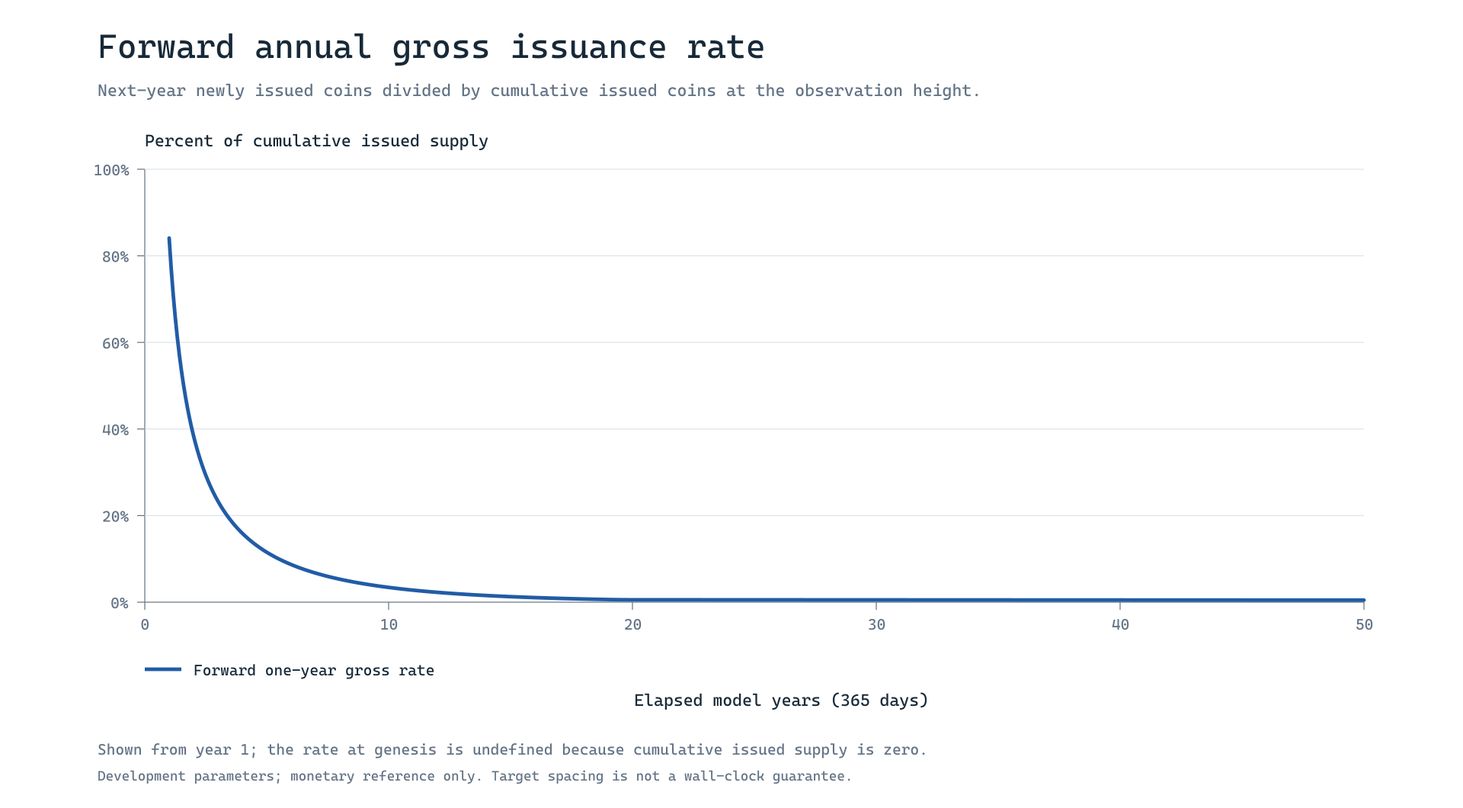
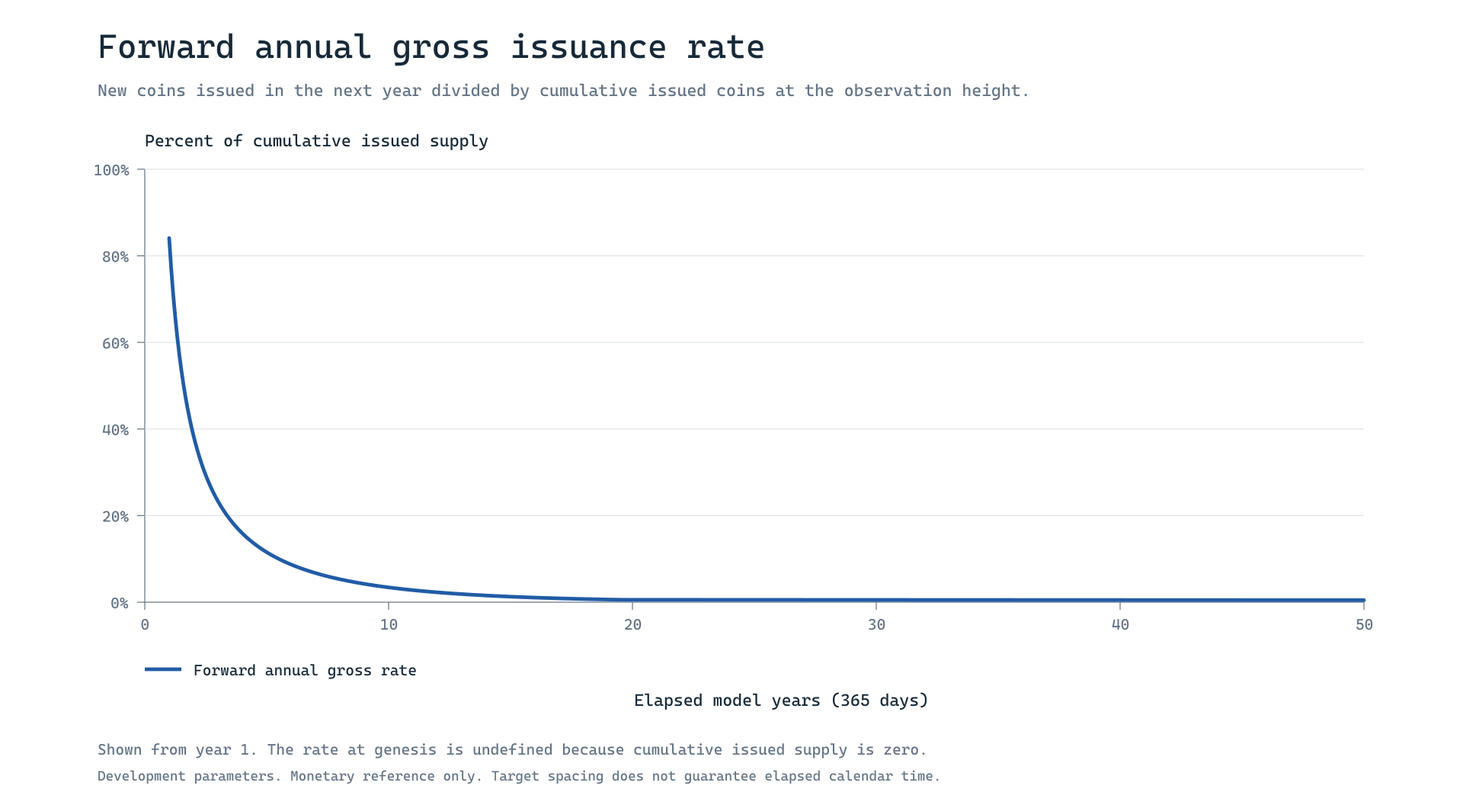
Documentation and research figures

Changed region(s): [[0.0938, 0.0934, 0.6875, 0.1245], [0.4375, 0.934, 0.625, 0.9651], [0.1875, 0.8094, 0.2812, 0.8406]]

diff --git a/research/emission/plot_emission.py b/research/emission/plot_emission.py
@@ -1,4 +1,4 @@
-"""Render data-derived emission charts with optional ReportLab 4.4.9.
+"""Render emission charts from data with optional ReportLab 4.4.9.
 
 The monetary generator and its tests require only the Python standard library.
 This separate renderer reads frozen CSVs and writes deterministic SVG charts.
@@ -78,7 +78,7 @@ def chart(title, subtitle, datasets, labels, palette, x_max, x_step,
         drawing.add(String(left + 32, 87, label, fontName="Helvetica", fontSize=10, fillColor=INK))
         left += max(180, 32 + len(label) * 6)
     drawing.add(String(64, 35, footer, fontName="Helvetica", fontSize=10, fillColor=GRAY))
-    drawing.add(String(64, 18, "Development parameters; monetary reference only. Target spacing is not a wall-clock guarantee.",
+    drawing.add(String(64, 18, "Development parameters. Monetary reference only. Target spacing does not guarantee elapsed calendar time.",
                        fontName="Helvetica", fontSize=9, fillColor=GRAY))
     return renderSVG.drawToString(drawing).encode("utf-8")
 
@@ -111,27 +111,27 @@ def generated_charts():
     inflation = [(float(row["model_years"]), float(row["next_year_gross_issuance_percent"]))
                  for row in monthly if row["next_year_gross_issuance_percent"] and
                  1 <= float(row["model_years"]) <= 50]
-    assumptions = "Fully earned budgets; no burns, premine, bootstrap, or omitted-budget timing adjustment."
+    assumptions = "Fully earned budgets. No burns, premine, or timing adjustment for bootstrap or omitted budgets."
     return {
         "reward_schedule.svg": chart(
-            "Scheduled reward and budget split", "240 monthly reward periods, followed by a 0.5-coin long reward until the cap binds.",
+            "Scheduled reward and budget split", "240 monthly reward periods, followed by a long reward of 0.5 coins until the cap binds.",
             [reward, miner, staking], ["Scheduled reward", "Miner budget", "Staking budget"],
             [BLUE, GREEN, ORANGE], 24, 4, 16, 4, "Coins per paid block", assumptions),
         "issued_supply.svg": chart(
-            "Cumulative issued supply", "The 63-million-coin limit applies to cumulative issuance; burns cannot reopen minting capacity.",
+            "Cumulative issued supply", "The limit of 63 million coins applies to cumulative issuance. Burns cannot reopen minting capacity.",
             [supply, [(0, 63), (330, 63)]], ["Fully earned issuance", "Cumulative issuance cap"],
             [BLUE, ORANGE], 330, 50, 70, 10, "Million coins",
             f"Cap reached at height 83,902,342 (about {cap_year:.6f} target model years). " +
-            "No burns; all budgets earned."),
+            "No burns. All budgets earned."),
         "annual_issuance.svg": chart(
-            "Annual newly issued coins", "Each step is the issuance during the following complete 365-day model year.",
+            "Annual newly issued coins", "Each step is the issuance during the following complete model year of 365 days.",
             [annual_issuance], ["Fully earned annual issuance"], [BLUE],
             50, 10, 4, 1, "Million coins per model year", assumptions),
         "gross_issuance_rate.svg": chart(
-            "Forward annual gross issuance rate", "Next-year newly issued coins divided by cumulative issued coins at the observation height.",
-            [inflation], ["Forward one-year gross rate"], [BLUE],
+            "Forward annual gross issuance rate", "New coins issued in the next year divided by cumulative issued coins at the observation height.",
+            [inflation], ["Forward annual gross rate"], [BLUE],
             50, 10, 100, 20, "Percent of cumulative issued supply",
-            "Shown from year 1; the rate at genesis is undefined because cumulative issued supply is zero.",
+            "Shown from year 1. The rate at genesis is undefined because cumulative issued supply is zero.",
             y_suffix="%"),
     }
 
@@ -144,7 +144,7 @@ def main():
     manifest = {
         "renderer": "ReportLab graphics.charts.lineplots.LinePlot",
         "reportlab_version": reportlab.Version,
-        "units": "chart labels specify coins or percent; source amounts are integer atomic units",
+        "units": "chart labels specify coins or percent. Source amounts are integer atomic units",
         "source_sha256": {name: hashlib.sha256((HERE / name).read_bytes()).hexdigest() for name in SOURCES},
         "svg_sha256": {name: hashlib.sha256(data).hexdigest() for name, data in files.items()},
     }
@@ -162,7 +162,7 @@ def main():
             destination.write_bytes(data)
     if mismatches:
         parser.exit(1, "Chart artifacts differ: " + ", ".join(mismatches) + "\n")
-    print("Chart artifacts match." if args.check else "Generated four data-derived SVG charts and source manifest.")
+    print("Chart artifacts match." if args.check else "Generated four SVG charts from data and source manifest.")
 
 
 if __name__ == "__main__":

diff --git a/crates/thorum-core/src/accounting.rs b/crates/thorum-core/src/accounting.rs
@@ -56,7 +56,7 @@ impl SupplyState {
         self.cumulative_burned
     }
 
-    /// Total outstanding supply; a ledger's balances, including locked balances,
+    /// Total outstanding supply. A ledger's balances, including locked balances,
     /// must sum to this after all transaction conservation checks.
     pub const fn outstanding(self) -> Amount {
         // Construction and every mutation preserve burned <= issued.
@@ -89,7 +89,7 @@ impl SupplyState {
     /// The caller must prove staking eligibility and duty evidence. The supplied
     /// earned amount must lie in `0..=staking_budget`. Unearned staking allocation
     /// is not credited to the miner, issued, or burned. Budgets are recomputed
-    /// against the current totals; an earlier quote cannot authorize extra minting.
+    /// against the current totals. An earlier quote cannot authorize extra minting.
     /// Errors leave the state unchanged.
     pub fn issue_block(
         &mut self,
@@ -123,7 +123,7 @@ impl SupplyState {
     /// Destroy authorized outstanding supply without restoring issuance capacity.
     ///
     /// The caller must establish ownership and transaction conservation. Errors
-    /// leave the state unchanged; zero is a valid no-op burn.
+    /// leave the state unchanged. Zero is a valid burn with no state change.
     pub fn burn(&mut self, amount: Amount) -> Result<(), AccountingError> {
         if amount > self.outstanding() {
             return Err(AccountingError::InsufficientOutstanding {

diff --git a/crates/thorum-core/src/amount.rs b/crates/thorum-core/src/amount.rs
@@ -6,7 +6,7 @@ use crate::ATOMIC_UNITS_PER_THM;
 /// A nonnegative quantity of atomic units.
 ///
 /// An amount is not evidence of issuance or ownership. It can represent any
-/// `u64` quantity; [`crate::SupplyState`] separately enforces the issuance cap.
+/// `u64` quantity. [`crate::SupplyState`] separately enforces the issuance cap.
 #[derive(Clone, Copy, Debug, Default, Eq, Hash, Ord, PartialEq, PartialOrd)]
 pub struct Amount(u64);
 
@@ -51,7 +51,7 @@ impl fmt::Display for Amount {
 /// Parse an unsigned THM decimal with zero to eight fractional digits.
 ///
 /// A decimal point requires digits on both sides. Signs, whitespace, exponent
-/// notation, separators, non-ASCII digits, and rounding are not accepted.
+/// notation, separators, digits outside ASCII, and rounding are not accepted.
 impl FromStr for Amount {
     type Err = AmountError;
 
@@ -118,7 +118,7 @@ impl fmt::Display for AmountError {
         f.write_str(match self {
             Self::InvalidDecimal => "expected an unsigned THM decimal",
             Self::TooManyDecimals => "THM amounts allow at most eight fractional digits",
-            Self::Overflow => "amount exceeds the atomic-unit range",
+            Self::Overflow => "amount exceeds the atomic unit range",
             Self::Underflow => "amount subtraction would be negative",
         })
     }

diff --git a/crates/thorum-core/src/emission.rs b/crates/thorum-core/src/emission.rs
@@ -11,7 +11,7 @@ pub const ISSUANCE_CAP: Amount = Amount::from_atomic(ISSUANCE_CAP_ATOMIC);
 pub const LONG_TERM_SUBSIDY: Amount = Amount::from_atomic(50_000_000);
 pub const FIRST_LONG_TERM_HEIGHT: u64 = SUBSIDY_PERIODS * BLOCKS_PER_SUBSIDY_PERIOD + 1;
 
-/// The reward index is `height - 1`; genesis has no reward index.
+/// The reward index is `height - 1`. Genesis has no reward index.
 pub const fn reward_block_index(height: u64) -> Option<u64> {
     height.checked_sub(1)
 }
@@ -20,8 +20,8 @@ pub const fn reward_block_index(height: u64) -> Option<u64> {
 ///
 /// Height zero is genesis and pays zero. For other heights, the period is
 /// `floor((height - 1) / 21_900)`. Periods 0 through 239 use the frozen table
-/// `floor(16 * 10^8 * 2^(-period/48))`; subsequent periods use 50,000,000 atoms.
-/// The table avoids floating-point arithmetic and platform-dependent rounding.
+/// `floor(16 * 10^8 * 2^(-period/48))`. Subsequent periods use 50,000,000 atoms.
+/// The table avoids floating point arithmetic and rounding that depends on the platform.
 pub fn scheduled_subsidy(height: u64) -> Amount {
     match reward_block_index(height) {
         None => Amount::ZERO,

diff --git a/crates/thorum-core/src/lib.rs b/crates/thorum-core/src/lib.rs
@@ -2,13 +2,13 @@
 //!
 //! This crate implements an issuance ceiling, a frozen subsidy schedule, planned
 //! reward allocation, and cumulative burns. All monetary calculations use atomic
-//! units; one THM contains 100,000,000 atomic units.
+//! units. One THM contains 100,000,000 atomic units.
 //!
 //! [`SupplyState`] is an accounting component, not a chain or transaction validator.
 //! Its caller must establish valid height ordering, branch membership, replay
 //! prevention, note ownership, transaction conservation, and evidence that staking
 //! rewards were earned. No networking, proof system, or staking cryptography is
-//! implemented here. Constructing a state from totals checks monetary invariants;
+//! implemented here. Constructing a state from totals checks monetary invariants.
 //! it does not authenticate the history that produced them.
 
 #![forbid(unsafe_code)]

diff --git a/crates/thorum-core/examples/parameters.rs b/crates/thorum-core/examples/parameters.rs
@@ -9,7 +9,7 @@ fn main() {
     println!("Cumulative issuance ceiling: {ISSUANCE_CAP} {TICKER}");
     println!("Target spacing: {BLOCK_TARGET_SECONDS} seconds");
     println!(
-        "Subsidy period: {BLOCKS_PER_SUBSIDY_PERIOD} blocks; frozen periods: {SUBSIDY_PERIODS}"
+        "Subsidy period: {BLOCKS_PER_SUBSIDY_PERIOD} blocks. Frozen periods: {SUBSIDY_PERIODS}"
     );
     let state = SupplyState::genesis();
     for height in [0, 1, 21_900, 21_901, FIRST_LONG_TERM_HEIGHT, u64::MAX] {
@@ -21,5 +21,5 @@ fn main() {
             budget.staking_budget()
         );
     }
-    println!("Staking budgets are issued only when earned; burns never reopen the ceiling.");
+    println!("Staking budgets are issued only when earned. Burns never reopen the ceiling.");
 }

diff --git a/research/emission/emission.py b/research/emission/emission.py
@@ -1,4 +1,4 @@
-"""Exact-integer emission and accounting research reference.
+"""Exact integer emission and accounting research reference.
 
 This module models monetary arithmetic. It does not implement consensus,
 staking eligibility, transaction validation, privacy, or cryptography.
@@ -52,7 +52,7 @@ def generate_schedule() -> tuple[int, ...]:
     """Exact floor(16 * 10**8 * 2**(-period / 48)), period 0..239.
 
     floor(root48(floor(A**48 / 2**period))) equals
-    floor(A * 2**(-period / 48)); no floating-point decision is involved.
+    floor(A * 2**(-period / 48)). No floating point decision is involved.
     """
     power = (16 * ATOMS_PER_COIN) ** 48
     return tuple(integer_nth_root(power >> period, 48)

diff --git a/crates/thorum-core/tests/golden_vectors.rs b/crates/thorum-core/tests/golden_vectors.rs
@@ -1,4 +1,4 @@
-//! Cross-check the Rust implementation against the independent Decimal model.
+//! Check Rust accounting against the independent exact integer reference model.
 
 use thorum_core::{
     reward_block_index, scheduled_subsidy, Amount, SupplyState, PERIOD_SUBSIDIES_ATOMIC,

diff --git a/research/emission/test_emission.py b/research/emission/test_emission.py
@@ -1,4 +1,4 @@
-"""Invariants and frozen-artifact checks for the monetary reference."""
+"""Invariants and checks of frozen artifacts for the monetary reference."""
 
 import json
 from pathlib import Path

diff --git a/research/emission/README.md b/research/emission/README.md
@@ -1,23 +1,23 @@
 # Emission and monetary accounting reference
 
-This directory contains an executable monetary research reference, frozen atomic-unit data, cross-language accounting vectors, and data-derived charts. It specifies development parameters and tests their arithmetic. Stake eligibility, consensus, privacy, post-quantum security, network behavior, bootstrap rules, and a mainnet implementation remain open construction work. Passing these tests establishes arithmetic consistency within the stated model; it does not establish network security or complete the broader research.
+This directory contains an executable monetary research reference, frozen atomic unit data, accounting vectors for tests across languages, and charts generated from data. It specifies development parameters and tests their arithmetic. Stake eligibility, consensus, privacy, post quantum security, network behavior, bootstrap rules, and a mainnet implementation remain open construction work. Passing these tests establishes arithmetic consistency within the stated model. It does not establish network security or complete the broader research.
 
 ## Definitions and development parameters
 
 | Quantity | Value or meaning |
 | --- | --- |
-| Atomic precision | 8 decimal places; 100,000,000 atomic units per coin |
-| Cumulative issuance cap | 63,000,000 coins; 6,300,000,000,000,000 atomic units |
-| Genesis | Height 0; no reward |
-| First paid block | Height 1; reward-block index 0 |
+| Atomic precision | 8 decimal places. 100,000,000 atomic units per coin |
+| Cumulative issuance cap | 63,000,000 coins. 6,300,000,000,000,000 atomic units |
+| Genesis | Height 0. No reward |
+| First paid block | Height 1. Reward block index 0 |
 | Target spacing | 120 seconds |
-| Reward period | 21,900 consecutive non-genesis heights; one twelfth of a 365-day model year at target spacing |
+| Reward period | 21,900 consecutive heights after genesis. One twelfth of a 365 day model year at target spacing |
 | Declining schedule | 240 periods |
-| Long reward | Nominal 0.50000000 coin per non-genesis block, subject to remaining issuance capacity |
+| Long reward | Nominal 0.50000000 coin per block after genesis, subject to remaining issuance capacity |
 | Miner budget | Floor of 70% of the capped reward |
-| Staking budget | Capped reward minus miner budget; includes the split remainder |
+| Staking budget | Capped reward minus miner budget, including the split remainder |
 
-For non-genesis height `h >= 1`, define the reward-block index `i = h - 1` and period `m = floor(i / 21,900)`, independently of actual issuance. The nominal scheduled reward in atomic units is
+For height `h >= 1` after genesis, define the reward block index `i = h - 1` and period `m = floor(i / 21,900)`, independently of actual issuance. The nominal scheduled reward in atomic units is
 
 ```text
 R(h) = floor(16 * 10^8 * 2^(-m / 48)),  0 <= m < 240
@@ -25,7 +25,7 @@ R(h) = 50,000,000,                     m >= 240
 R(0) = 0
 ```
 
-The first long-reward block has height 5,256,001 and reward-block index 5,256,000. The preceding height 5,256,000 still uses entry 239. The declining phase lasts 20 target model years, with a nominal four-year half-life at the period boundaries.
+The first block with the long reward has height 5,256,001 and reward block index 5,256,000. The preceding height 5,256,000 still uses entry 239. The declining phase lasts 20 target model years, with a nominal four year half life at the period boundaries.
 
 `emission.py` computes each table entry with an exact integer 48th root. If `A = 16 * 10^8` and the resulting entry is `r`, the tests establish both inequalities
 
@@ -33,7 +33,7 @@ The first long-reward block has height 5,256,001 and reward-block index 5,256,00
 r^48 * 2^m <= A^48 < (r + 1)^48 * 2^m.
 ```
 
[2 lines of base64/hex data omitted]
 
 ## Cap, earned issuance, and burns
 
@@ -52,44 +52,44 @@ B_after         = B + burn_after
 outstanding     = I_after - B_after
 ```
 
-The miner budget is assumed earned for a valid issued block. Stake eligibility and distribution must be supplied by a future consensus construction. Unearned staking budget remains unissued: it does not enter outstanding supply, cumulative issuance, or a reserve. Later rewards still use the height-based schedule; no catch-up payment is defined. This can delay cap exhaustion.
+The miner budget is assumed earned for a valid issued block. Stake eligibility and distribution must be supplied by a future consensus construction. Unearned staking budget remains unissued: it does not enter outstanding supply, cumulative issuance, or a reserve. Later rewards still use the schedule based on height. No catch up payment is defined. This can delay cap exhaustion.
 
-Burns reduce outstanding supply and never reduce cumulative issuance. They cannot reopen issuance capacity. A burn cannot exceed outstanding supply after the block's issuance. Fees transfer existing value and are outside the subsidy model; they are not counted as new issuance in these artifacts.
+Burns reduce outstanding supply and never reduce cumulative issuance. They cannot reopen issuance capacity. A burn cannot exceed outstanding supply after the block's issuance. Fees transfer existing value and are outside the subsidy model. They are not counted as new issuance in these artifacts.
 
-Clipping before splitting matters near the cap. With seven atomic units of capacity, the budgets are four miner units and three staking units. With one unit of capacity, the miner budget is zero and the staking budget is one; if that stake is unearned, the unit remains unissued. No special rule forces the cap to be reached.
+Clipping before splitting matters near the cap. With seven atomic units of capacity, the budgets are four miner units and three staking units. With one unit of capacity, the miner budget is zero and the staking budget is one. If that stake is unearned, the unit remains unissued. No special rule forces the cap to be reached.
 
 ## Frozen artifacts
 
 | File | Content |
 | --- | --- |
-| `schedule.csv` | Exactly 240 declining entries, atomic amounts, fixed eight-decimal coin amounts, and inclusive index/height bounds |
+| `schedule.csv` | Exactly 240 declining entries, atomic amounts, coin amounts with eight decimal places, and inclusive index/height bounds |
 | `golden_vectors.json` | 18 independent transitions, split remainder vectors, invalid inputs, and explicit accounting semantics |
-| `golden_vectors.csv` | The same 18 successful transitions in a plain numeric CSV for cross-language tests |
+| `golden_vectors.csv` | The same 18 successful transitions in a plain numeric CSV for tests across languages |
 | `projection_monthly.csv` | Target model months from year 0 through year 330 |
-| `projection_annual.csv` | Target model years 0 through 330, including next-year issuance and gross issuance rate |
-| `metadata.json` | Parameters, assumptions, content hashes, and exact cap-exhaustion block |
+| `projection_annual.csv` | Target model years 0 through 330, including issuance during the following year and gross issuance rate |
+| `metadata.json` | Parameters, assumptions, content hashes, and the exact block that exhausts the cap |
 | `charts/manifest.json` | Plotting dependency version, source hashes, and canonical SVG hashes |
 
-Golden transitions are independent input states rather than one consecutive chain. Every amount field ending in `_atoms` is an integer; `height` and `reward_block_index` are integer indices. Genesis uses JSON `null` and an empty CSV field for the reward-block index. Each transition includes the input state, scheduled and capped budgets, earned and unearned staking amounts, actual newly issued amount, burn applied after issuance, final state, outstanding amount, and remaining capacity. JSON consumers must preserve full-width integer heights: the maximum `u64` height vector cannot be represented exactly by a JavaScript `Number`.
+Golden transitions are independent input states rather than one consecutive chain. Every amount field ending in `_atoms` is an integer. `height` and `reward_block_index` are integer indices. Genesis uses JSON `null` and an empty CSV field for the reward block index. Each transition includes the input state, scheduled and capped budgets, earned and unearned staking amounts, actual newly issued amount, burn applied after issuance, final state, outstanding amount, and remaining capacity. JSON consumers must preserve the full integer width of heights: the maximum `u64` height vector cannot be represented exactly by a JavaScript `Number`.
 
 ## Projection assumptions and results
 
-The projections assume every scheduled miner and staking budget is fully earned, zero-reward genesis, target-average block spacing, 365-day years, no burns, no premine, and no bootstrap or omitted-budget timing adjustment. A reward period is exactly 21,900 blocks rather than a civil calendar month. Height-based accounting is exact; calendar timing is illustrative. Unavailable staking, unissued budgets, launch adjustments, or deviations from target spacing change actual issuance timing and the time at which the cap is reached.
+The projections assume every scheduled miner and staking budget is fully earned, genesis with no reward, average block spacing at the target, 365 day years, no burns, no premine, and no timing adjustment for bootstrap or omitted budgets. A reward period is exactly 21,900 blocks rather than a civil calendar month. Accounting by height is exact. Calendar timing is illustrative. Unavailable staking, unissued budgets, launch adjustments, or deviations from target spacing change actual issuance timing and the time at which the cap is reached.
 
 Under these assumptions:
 
 | Observation | Result |
 | --- | --- |
 | Cumulative issuance after 20 target model years | 23,676,829.37882100 coins |
-| Full long-reward issuance per 365-day model year | 131,400.00000000 coins |
-| First block reaching the cap | Height 83,902,342; reward-block index 83,902,341 |
+| Full long reward issuance per 365 day model year | 131,400.00000000 coins |
+| First block reaching the cap | Height 83,902,342. Reward block index 83,902,341 |
 | Last capped reward | 0.12117900 coin |
 | Last miner / staking budgets | 0.08482530 / 0.03635370 coin |
-| Target elapsed time to cap | 10,068,281,040 seconds; about 319.263097412481 model years |
+| Target elapsed time to cap | 10,068,281,040 seconds, about 319.263097412481 model years |
 
-The forward annual gross issuance rate is `100 * next_year_issued / cumulative_issued` at the observation height. It is undefined at genesis and encoded as an empty CSV field. It measures new supply relative to issued supply; it does not estimate purchasing power, staking yield, or a holder's dilution after accounting for fees or burns. With no burns in the projection, outstanding supply equals cumulative issued supply. The charts never treat fees or burns as issuance.
+The forward annual gross issuance rate is `100 * next_year_issued / cumulative_issued` at the observation height. It is undefined at genesis and encoded as an empty CSV field. It measures new supply relative to issued supply. It does not estimate purchasing power, staking yield, or a holder's dilution after accounting for fees or burns. With no burns in the projection, outstanding supply equals cumulative issued supply. The charts never treat fees or burns as issuance.
 
-After the cap binds, the nominal long-reward schedule remains defined but the payable capped subsidy is zero. The security budget and incentive behavior at that point require separate research.
+After the cap binds, the nominal long reward schedule remains defined but the payable capped subsidy is zero. The security budget and incentive behavior at that point require separate research.
 
 ## Reproduction
 
@@ -101,7 +101,7 @@ python emission.py --check
 python -m unittest -v
 ```
 
-The tests cover exact floor inequalities, all period boundaries, genesis, maximum height, conservation, invalid states, cap clipping, unavailable and partial staking, split remainders, burns, the last capped block, and byte-for-byte frozen artifact reproduction. Reference validation used Python 3.14.5.
+The tests cover exact floor inequalities, all period boundaries, genesis, maximum height, conservation, invalid states, cap clipping, unavailable and partial staking, split remainders, burns, the last capped block, and exact reproduction of frozen artifacts. Reference validation used Python 3.14.5.
 
 Chart rendering is separate and optional. It requires ReportLab, validated with version 4.4.9. The canonical SVGs use `reportlab.graphics.charts.lineplots.LinePlot` and read the frozen CSVs:
 
@@ -116,7 +116,7 @@ The `--check` commands compare generated bytes without rewriting artifacts. SVG 
 node render_chart_previews.cjs
 ```
 
-PNG font rasterization can vary by platform; the SVG and source-data hashes in the manifest identify the canonical chart content. The plotting dependencies are unnecessary for generating or verifying the monetary fixtures. No dependency installation is performed by these scripts.
+PNG font rasterization can vary by platform. The SVG and source data hashes in the manifest identify the canonical chart content. The plotting dependencies are unnecessary for generating or verifying the monetary fixtures. No dependency installation is performed by these scripts.
 
 ## Charts
 

diff --git a/docs/checkpoints.md b/docs/checkpoints.md
@@ -4,13 +4,13 @@
 
 Auxiliary proof of work produces candidate blocks. Eligible stake supplies checkpoint support over a valid branch. Ordinary validators continue to reject invalid transactions and proofs independently of stake support.
 
-A staking vote is an automatic protocol message, not an authorization to spend treasury assets or access private payments. Treasury control and software-upgrade governance are separate policies.
+A staking vote is an automatic protocol message, not an authorization to spend treasury assets or access private payments. Treasury control and governance of software upgrades are separate policies.
 
 ## Required construction
 
-The complete checkpoint protocol is open research. It must specify eligibility, randomness, quorum assumptions, voting rounds, certificate encoding, branch selection, safety, liveness, and recovery. A five-block checkpoint interval is a development parameter; it does not establish a ten-minute finality guarantee.
+The complete checkpoint protocol is open research. It must specify eligibility, randomness, quorum assumptions, voting rounds, certificate encoding, branch selection, safety, liveness, and recovery. A checkpoint interval of five blocks is a development parameter. It does not establish a finality guarantee of ten minutes.
 
-Confidential eligibility must bind committed stake, ownership, epoch, chain, referenced state, and authorized voting key. It must reject weight forgery, double counting, reuse after spending, cross-network replay, and conflicting use of the same authority. Splitting the same value across many positions must not increase aggregate stake or expected influence.
+Confidential eligibility must bind committed stake, ownership, epoch, chain, referenced state, and authorized voting key. It must reject weight forgery, double counting, reuse after spending, replay across networks, and conflicting use of the same authority. Splitting the same value across many positions must not increase aggregate stake or expected influence.
 
 The randomness construction must address grinding, withholding, and adaptive participants while meeting native PQ requirements. A classical VRF or aggregate certificate cannot be adopted without accounting for its security assumptions.
 
@@ -18,12 +18,12 @@ The randomness construction must address grinding, withholding, and adaptive par
 
 Specify activation, maturity, bonding/unbonding, key rotation, delegation, reward vesting, equivocation evidence, and penalties. Restricted online voting authority must not be general spending authority.
 
-The monetary core applies a nominal 70/30 split: the miner receives floor(7 * capped subsidy / 10) atomic units and the stake budget receives the remainder. This preserves atomic-unit conservation, including a final one-atom budget that is entirely allocated to staking. Only explicitly earned stake amounts are issued. The core does not verify the evidence of those duties. Unused stake budget is not redirected to the miner or treasury. The future kernel must bind the accounting call to valid certificate/duty evidence and prevent duplicate application.
+The monetary core applies a nominal 70/30 split: the miner receives floor(7 * capped subsidy / 10) atomic units and the stake budget receives the remainder. This preserves atomic unit conservation, including a final budget of one atom that is entirely allocated to staking. Only explicitly earned stake amounts are issued. The core does not verify the evidence of those duties. Unused stake budget is not redirected to the miner or treasury. The future kernel must bind the accounting call to valid certificate/duty evidence and prevent duplicate application.
 
-With no premine, checkpoint activation requires a public bootstrap process that distributes eligible stake. The transition rule and conditions must be audited and simulated before a value-bearing launch. Until activated, the node must not report stake finality.
+With no premine, checkpoint activation requires a public bootstrap process that distributes eligible stake. The transition rule and conditions must be audited and simulated before a launch involving real value. Until activated, the node must not report stake finality.
 
 ## Adversarial evaluation
 
-Required cases include partitions, unavailable quorum, conflicting votes, hidden stake concentration, long-range history, miner/staker disagreement, abrupt work changes, restored signers on multiple devices, withdrawals during reorganization, tiny-registration load, and stalled finality. Disabling stake checks during a failure is not a preservation of their security guarantee.
+Required cases include partitions, unavailable quorum, conflicting votes, hidden stake concentration, long range history, miner/staker disagreement, abrupt work changes, restored signers on multiple devices, withdrawals during reorganization, load from tiny registrations, and stalled finality. Disabling stake checks during a failure is not a preservation of their security guarantee.
 
-The production staking floor and exact withdrawal/penalty rules are not frozen. Development comparisons include resource-limited participation without an extra balance floor, 1 THM, and 10 THM registration floors.
+The production staking floor and exact withdrawal/penalty rules are not frozen. Development comparisons include participation limited by resources without an extra balance floor, 1 THM, and 10 THM registration floors.

diff --git a/docs/architecture.md b/docs/architecture.md
@@ -10,21 +10,21 @@ Thorum uses one ledger and one set of native conservation and authorization rule
 | Private proof relation | Bind ownership, asset/value policy, nullifiers, ciphertext commitments and resulting state | Formal relation, adversarial vectors, security analysis and review |
 | Validation kernel | Canonical decoding, proof verification, resource limits, global uniqueness and state transitions | Independent validation agreement and rejection vectors |
 | Monetary accounting | Scheduled allocation, actual issuance, cumulative cap, completed burns | Integer boundaries, conservation and reference vectors |
-| Work adapter | Construct and authenticate child commitments within supported parent jobs | Same-work acceptance, malformed witness rejection, compatible operator integration |
+| Work adapter | Construct and authenticate child commitments within supported parent jobs | Acceptance of the same work, malformed witness rejection, compatible operator integration |
 | Checkpoint consensus | Select eligible support and finalize a valid branch | Explicit assumptions, quorum/liveness rules and adversarial simulations |
 | Storage and synchronization | Persist authenticated state and perform consistent rollback | Crash/restart, branch change, pruning and recovery tests |
 
 ## State separation
 
-The monetary module owns a narrow accounting transition. A future chain state additionally needs authenticated commitment roots, spent-nullifier state, asset policy, execution commitments, block identity/order, and finalized checkpoint context. Passing an amount to an accounting function does not authorize its creation or destruction.
+The monetary module owns a narrow accounting transition. A future chain state additionally needs authenticated commitment roots, spent nullifier state, asset policy, execution commitments, block identity/order, and finalized checkpoint context. Passing an amount to an accounting function does not authorize its creation or destruction.
 
-State changes are atomic at the kernel boundary. Failed decoding, authorization, proofs, limits, or checkpoint checks must leave persisted state unchanged. Branch rollback restores monetary counters and private-ledger roots from the same state version.
+State changes are atomic at the kernel boundary. Failed decoding, authorization, proofs, limits, or checkpoint checks must leave persisted state unchanged. Branch rollback restores monetary counters and private ledger roots from the same state version.
 
 ## Cryptographic evaluation
 
-Primitive and backend evaluation targets include ML-DSA authorization, ML-KEM key establishment, authenticated symmetric encryption, and zero-knowledge STARK execution. No executable cryptographic evaluation or integrated backend is present in the initial workspace. These targets do not define a complete private protocol.
+Primitive and backend evaluation targets include ML-DSA authorization, ML-KEM key establishment, authenticated symmetric encryption, and zero knowledge STARK execution. No executable cryptographic evaluation or integrated backend is present in the initial workspace. These targets do not define a complete private protocol.
 
-Evaluation must include recipient anonymity, ciphertext binding, commitment hiding/binding, unique nullifiers, value ranges, execution soundness, quantum-model assumptions, and confidential stake eligibility. Public-key exposure and historical ciphertext retention are part of the threat model.
+Evaluation must include recipient anonymity, ciphertext binding, commitment hiding/binding, unique nullifiers, value ranges, execution soundness, quantum model assumptions, and confidential stake eligibility. Public key exposure and historical ciphertext retention are part of the threat model.
 
 The protocol cannot inherit a complete security claim from a primitive's standardization or from a proof engine. Exact versions, parameters, composition, and known limitations need recorded analysis. Primitive/key upgrades require versioned migration rules without an administrative mint or spending bypass.
 
@@ -32,4 +32,4 @@ Primary specifications: [ML-DSA](https://csrc.nist.gov/pubs/fips/204/final), [ML
 
 ## Research gates
 
-The private transaction relation and private stake construction must be demonstrated and reviewed before dependent production interfaces are frozen. No classical curve-based voting or eligibility mechanism can silently satisfy a post-quantum native authorization requirement.
+The private transaction relation and private stake construction must be demonstrated and reviewed before dependent production interfaces are frozen. No classical voting or eligibility mechanism based on curves can silently satisfy a post quantum native authorization requirement.
